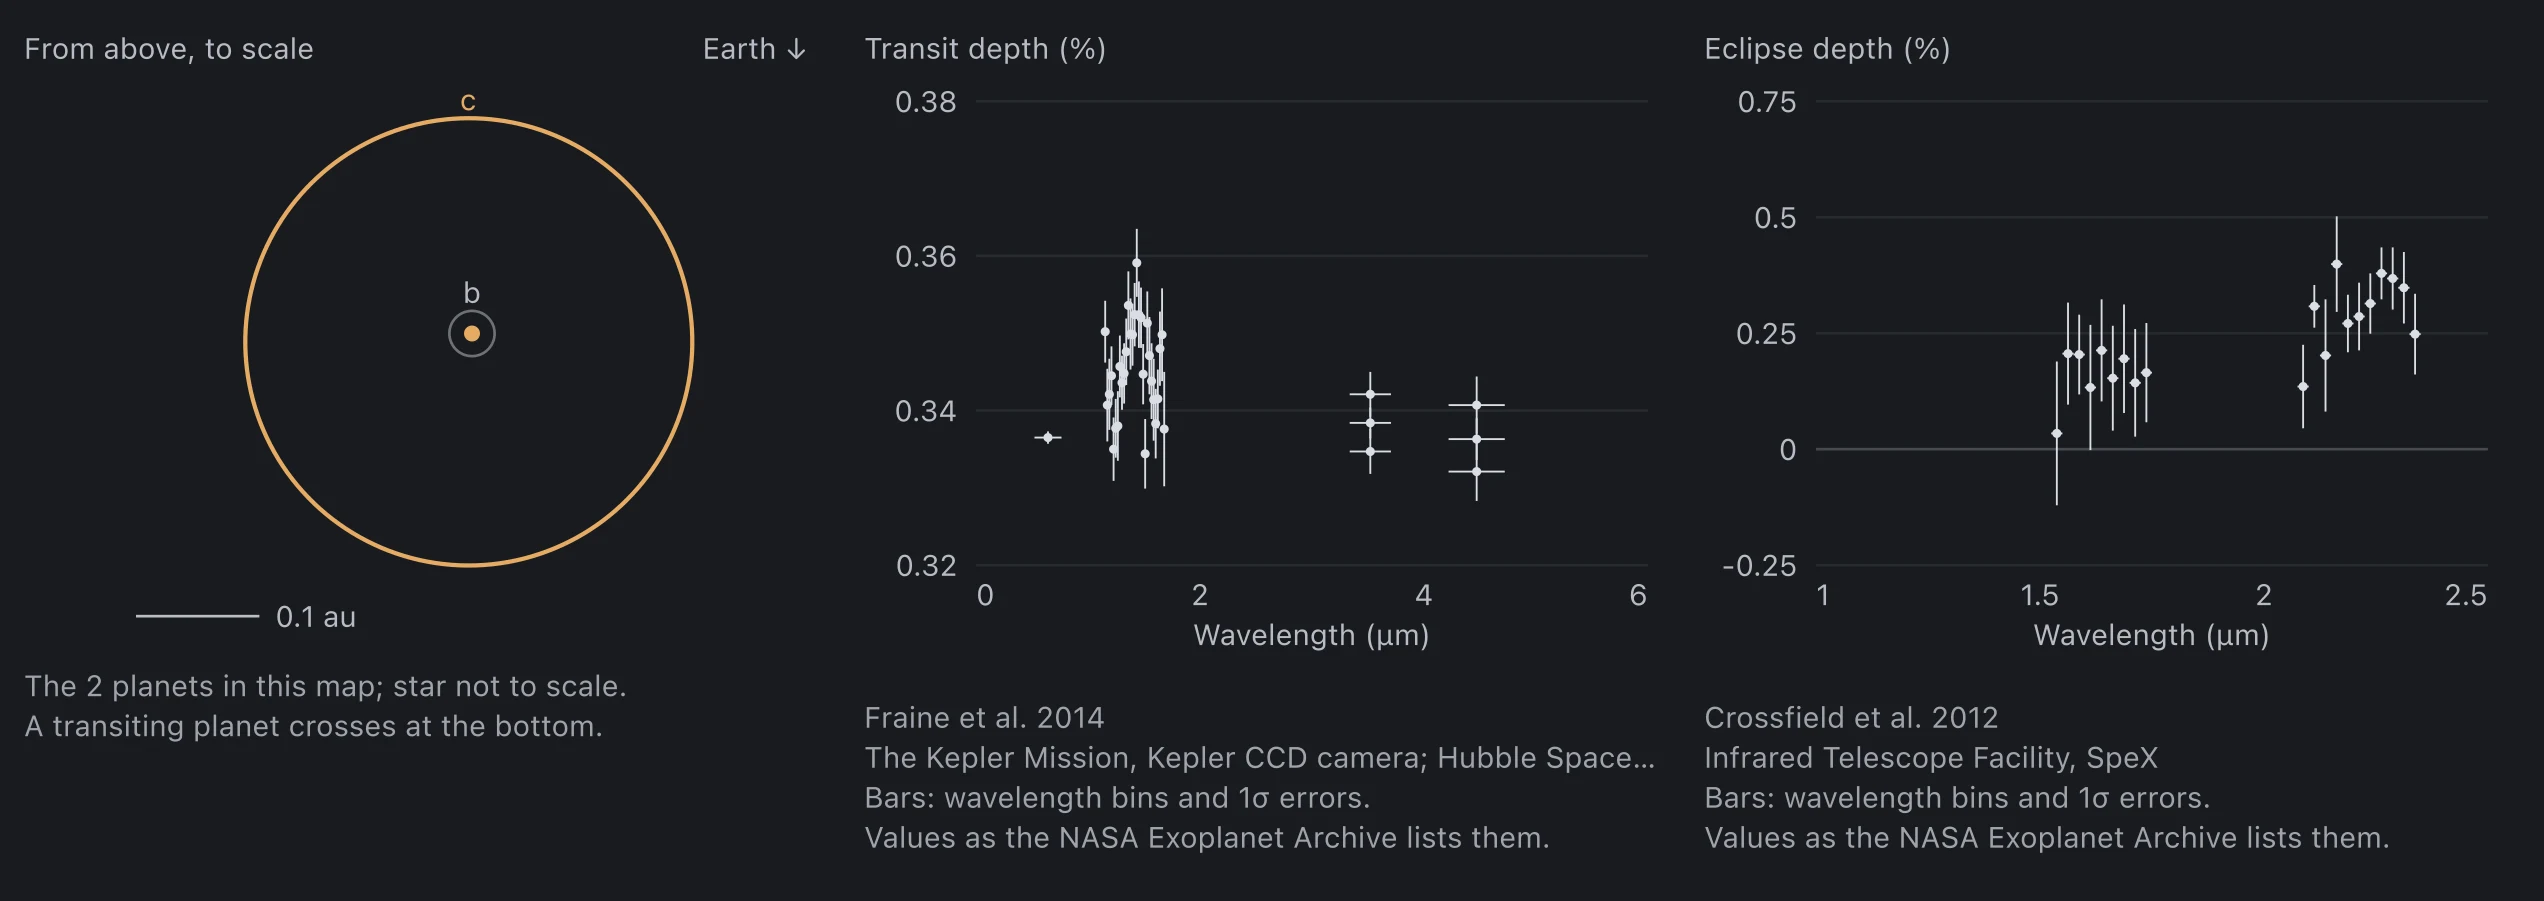
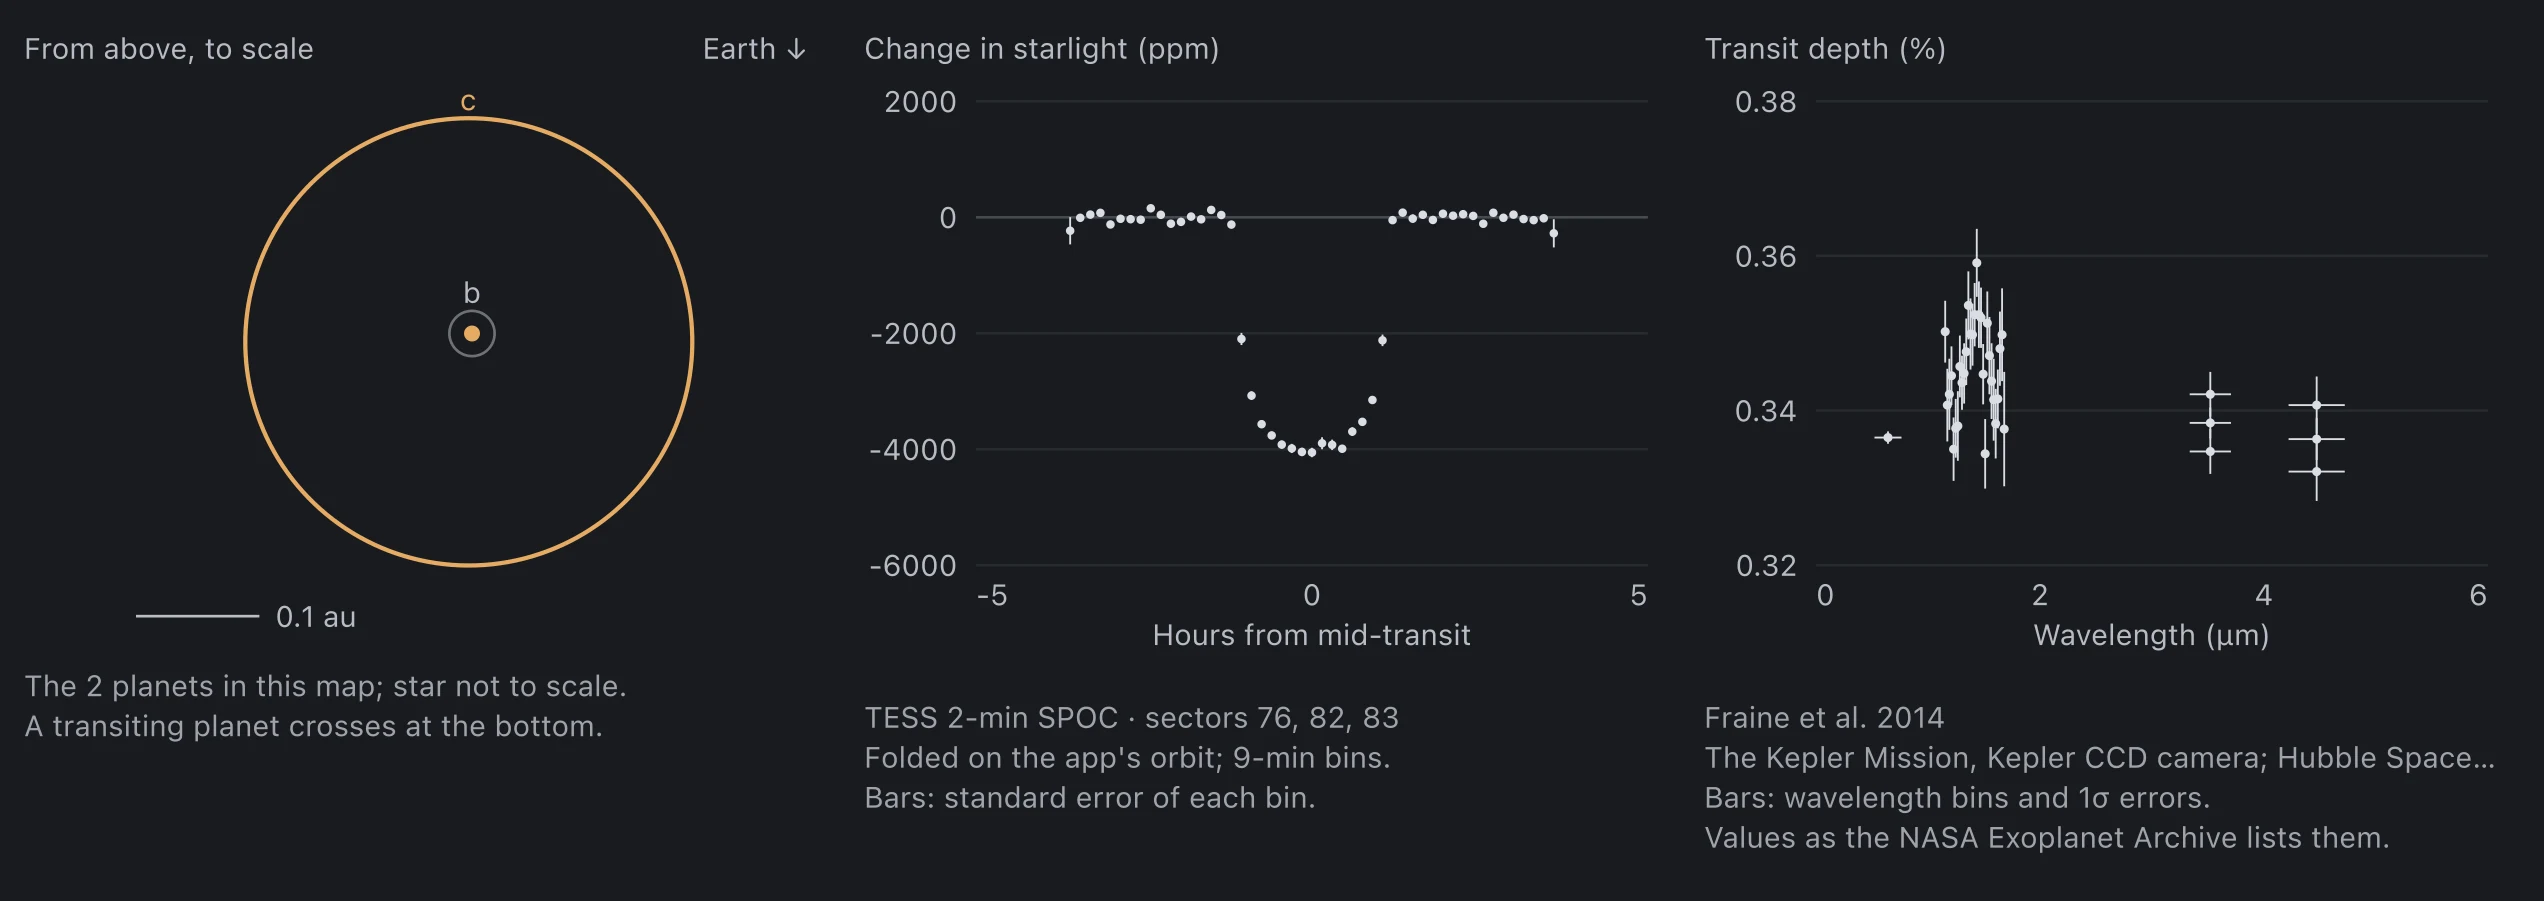
docs(charts): show HAT-P-11 b's TESS transit in the recipe guide

diff --git a/docs/chart-recipes.md b/docs/chart-recipes.md
@@ -52,9 +52,9 @@ preparation derives image dimensions from the generated SVG. The content
 recipe also records dimensions for consumers of the authored document.
 Keep its alt text, source reference and chart title meaningful.
 
-Generated exoplanets get their charts from `new-object` (`tools/objects/new-object/planet-charts.mts`): HD 3167 c's orbits, HAT-P-11 b's transmission spectrum from Fraine et al. (2014) and WASP-12 b's dayside emission from Crossfield et al. (2012), as the NASA Exoplanet Archive lists them.
+Generated exoplanets get their charts from `new-object` (`tools/objects/new-object/planet-charts.mts`): HD 3167 c's orbits, HAT-P-11 b's transit folded from three TESS sectors (landing on 0 hours once its orbit took the ephemeris that predicts today) and its transmission spectrum from Fraine et al. (2014), as the NASA Exoplanet Archive lists it.
 
-![Generated charts: HD 3167 system orbits, HAT-P-11 b transmission spectrum, WASP-12 b dayside emission](images/generated-exoplanet-charts.webp)
+![Generated charts: HD 3167 system orbits, HAT-P-11 b transit from TESS, HAT-P-11 b transmission spectrum](images/generated-exoplanet-charts.webp)
 
 ## Add or reuse one
 
